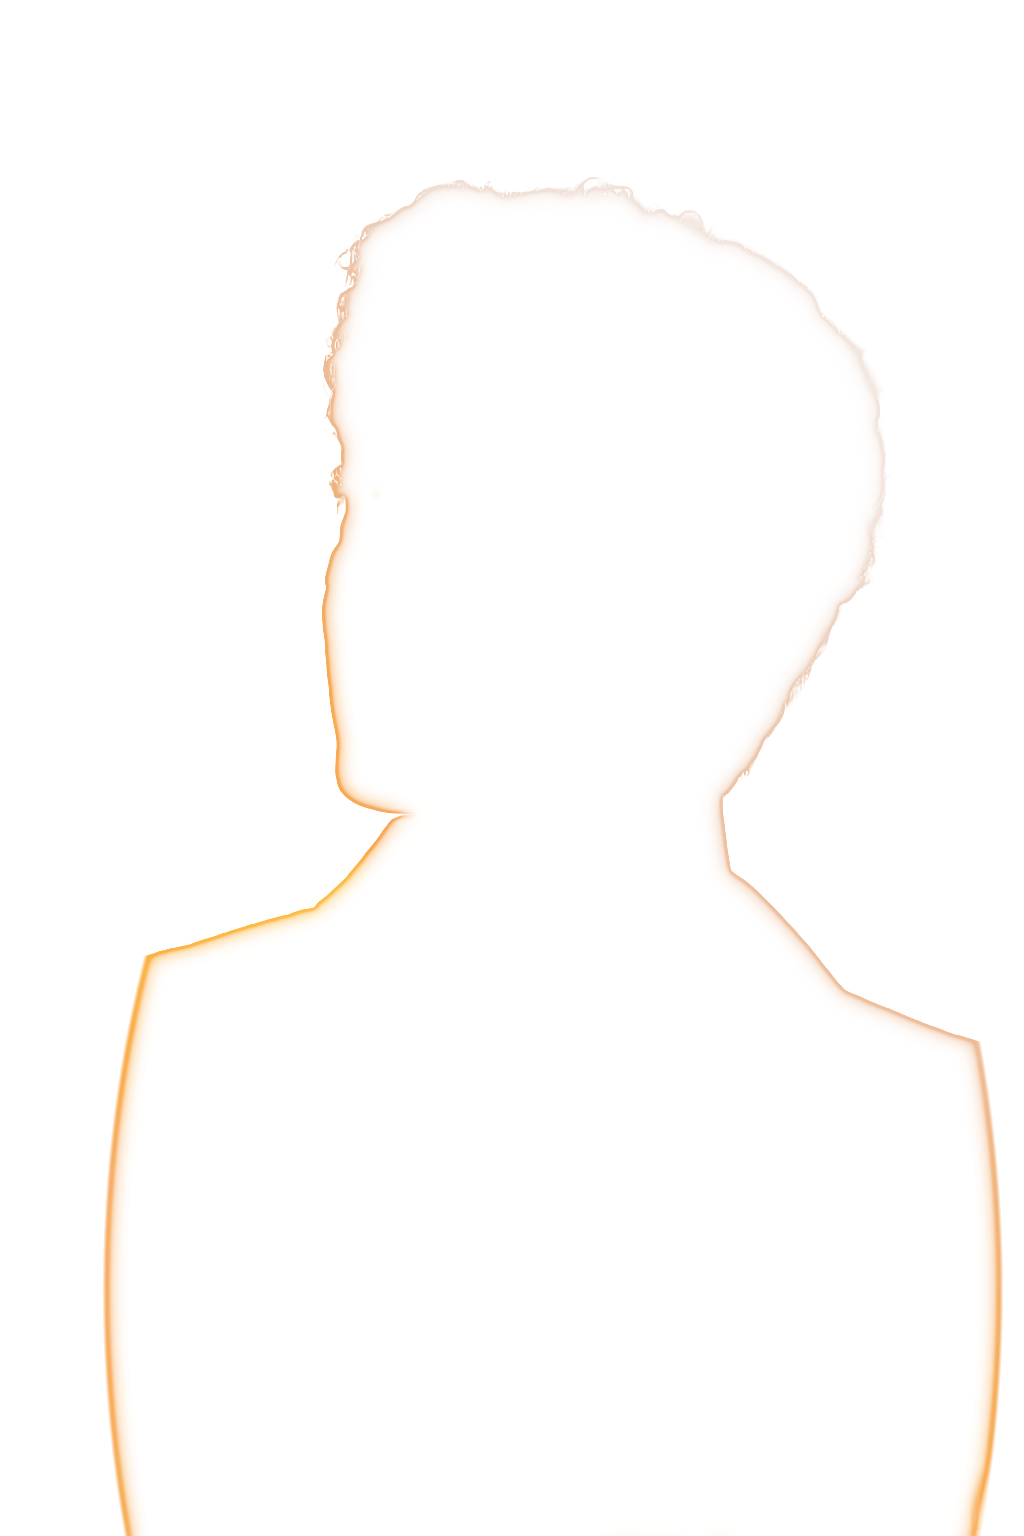
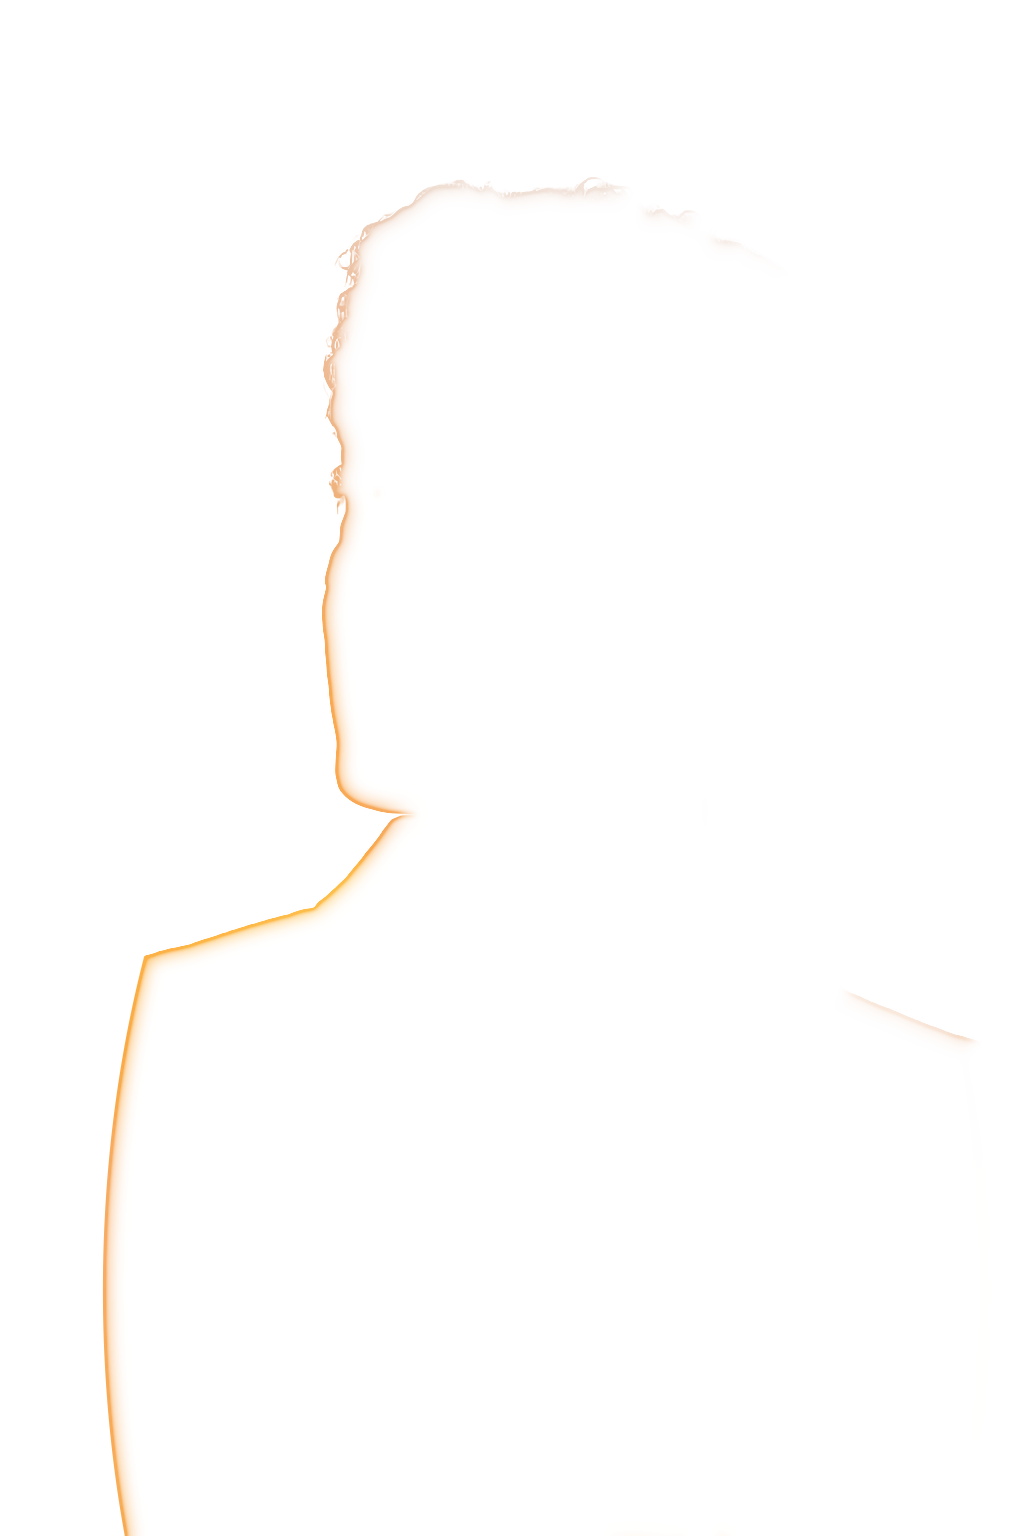
Crachá estável, luz do card mais cedo, camisa sem borda e hero empilhada nos Projetos
- Crachá: o gancho andava de uma vez para a nova posição do "g" a cada
  quadro; num quadro atrasado o salto virava um tranco e o cartão girava
  muito rápido. Agora ele anda um pedaço em cada passo da física, e a
  velocidade dos pontos e o giro do cartão têm teto.
- Card "Seu negócio merece mais que um template": a faixa de luz já começa
  na borda esquerda e, no celular, o efeito começa antes de o card entrar.
- Hero, camisa do lado direito: a borda arredondada dos ombros tinha 5 px
  de esfumado (mancha escura sobre o painel claro, no PC) e a luz de
  contorno acendia o lado direito (fio laranja no celular). Borda de 1 px
  e luz com direção: entra pelas bordas viradas para a esquerda e para o
  alto, de onde vem a luz dourada, e some nas viradas para a direita.
- Hero -> Projetos: sai a faixa clara com o selo entre os dois blocos. O
  painel escuro começa logo embaixo da hero (os cantos arredondados dela
  ficam sobre o café), com sombra macia de cartão empilhado, e o selo
  "(01) Projetos" entra no alto do painel em claro. PC, tablet e celular.

Claude-Session: https://claude.ai/code/session_01VHr8XGdYJNrTSrEhkoVJ4w

diff --git a/js/cracha.js b/js/cracha.js
@@ -194,6 +194,7 @@ async function start() {
   const N = 12;                        // pontos da fita
   const G = 3000, DAMPING = 1.2, STEP = 1 / 120, ITER = 12;
   const KF = 0.004, TWIST = 0.12;      // mola que vira o cartão de frente / giro que o balanço dá
+  const TW_MAX = 0.9, VMAX = 16;       // tetos: giro por passo e velocidade dos pontos (px por passo, ~1900 px/s)
 
   // ----- cena -----
   const canvas = document.createElement('canvas');
@@ -362,7 +363,10 @@ async function start() {
     const vcx = (cx - (T.px + BL.px + BR.px) / 3) / STEP;
     let moved = 0;
     for (const p of pts) {
-      const vx = (p.x - p.px) * damp, vy = (p.y - p.py) * damp, vz = (p.z - p.pz) * damp;
+      let vx = (p.x - p.px) * damp, vy = (p.y - p.py) * damp, vz = (p.z - p.pz) * damp;
+      // teto de velocidade: um puxão forte (título entrando, quadro atrasado) não vira um giro desembestado
+      const sp = Math.hypot(vx, vy, vz);
+      if (sp > VMAX) { const k = VMAX / sp; vx *= k; vy *= k; vz *= k; }
       p.px = p.x; p.py = p.y; p.pz = p.z;
       if (p === A) continue;
       if (drag && p.card) { p.x += (drag.x - cx) * 0.3; p.y += (drag.y - cy) * 0.3; p.z += vz; }
@@ -371,8 +375,10 @@ async function start() {
       moved = Math.max(moved, Math.abs(p.x - p.px) + Math.abs(p.y - p.py) + Math.abs(p.z - p.pz));
     }
     // o balanço gira o cartão; a mola o traz de volta de frente
-    const tw = drag ? 0 : vcx * TWIST * STEP;
+    const tw = drag ? 0 : THREE.MathUtils.clamp(vcx * TWIST * STEP, -TW_MAX, TW_MAX);
     BL.z += tw; BR.z -= tw;
+    const zMax = W * 0.42;   // o cartão inclina, mas não roda sem parar
+    BL.z = THREE.MathUtils.clamp(BL.z, -zMax, zMax); BR.z = THREE.MathUtils.clamp(BR.z, -zMax, zMax);
     const yaw = (BR.z - BL.z) * KF, pitch = (T.z - (BL.z + BR.z) / 2) * KF;
     BR.z += pitch - yaw; BL.z += pitch + yaw;
     for (let it = 0; it < ITER; it++) {
@@ -431,9 +437,17 @@ async function start() {
   let running = false, visible = true, last = 0, acc = 0, still = 0, since = 0;
   function frame(t) {
     const dt = Math.min(0.05, (t - last) / 1000 || 1 / 60); last = t; acc += dt;
-    pin();   // o título pode estar animando: o "g" muda de lugar
-    let moved = 0;
-    while (acc >= STEP) { moved = Math.max(moved, step()); acc -= STEP; }
+    // o título pode estar animando: o "g" muda de lugar. O gancho não pula de uma vez para a posição nova: anda um
+    // pedaço em cada passo da física (num quadro atrasado o salto era grande e o cartão disparava a girar)
+    const ox = P.x, oy = P.y;
+    pin();
+    const nx = P.x, ny = P.y, n = Math.floor(acc / STEP);
+    let moved = 0, i = 0;
+    while (acc >= STEP) {
+      i++; P.x = ox + (nx - ox) * (i / n); P.y = oy + (ny - oy) * (i / n); placeA();
+      moved = Math.max(moved, step()); acc -= STEP;
+    }
+    P.x = nx; P.y = ny; placeA();
     draw();
     still = moved < 0.05 && !drag ? still + dt : 0;
     since = drag ? 0 : since + dt;   // nunca fica rodando sozinho para sempre (tremidinhas de arredondamento)

diff --git a/css/style.css b/css/style.css
@@ -167,8 +167,8 @@ a { color: inherit; text-decoration: none; }
   /* os ombros encostam nas laterais da foto original (corte reto): da metade para baixo o
      corpo ganha um contorno arredondado dos dois lados. A cabeça (metade de cima) fica inteira.
      Vale também para o celular. */
-  -webkit-mask-image: linear-gradient(to bottom, #000 52%, transparent 52.5%), radial-gradient(ellipse 44% 52% at 54% 84%, #000 98.5%, transparent 100%);
-          mask-image: linear-gradient(to bottom, #000 52%, transparent 52.5%), radial-gradient(ellipse 44% 52% at 54% 84%, #000 98.5%, transparent 100%);
+  -webkit-mask-image: linear-gradient(to bottom, #000 52%, transparent 52.5%), radial-gradient(ellipse 44% 52% at 54% 84%, #000 99.6%, transparent 100%);
+          mask-image: linear-gradient(to bottom, #000 52%, transparent 52.5%), radial-gradient(ellipse 44% 52% at 54% 84%, #000 99.6%, transparent 100%);
   -webkit-mask-repeat: no-repeat; mask-repeat: no-repeat;   /* sem isso, um fio do lado direito aparecia na borda esquerda */
 }
 .person img { display: block; width: 100%; height: 100%; }
@@ -1859,4 +1859,26 @@ html.leve .intro .btn-work, html.leve .intro .btn-work::before, html.leve .intro
   position: absolute; inset: 0; pointer-events: none;
   background: url("../img/gabriel-luz.webp") 0 0 / 100% 100% no-repeat;
   mix-blend-mode: screen;
+}
+
+/* ---------- Hero -> Projetos: cartões empilhados ----------
+   Sem a faixa clara entre os dois blocos: o painel escuro dos Projetos começa logo embaixo da hero (passa 36 px
+   por baixo dela, então os cantos arredondados da hero ficam sobre o café), uma sombra macia mostra que a hero é o
+   cartão de cima, e o selo "(01) Projetos" entra no alto do painel, em claro. */
+.about:has(> .about-in > .projects:first-child) { padding-top: 0; }
+.about-in > .projects:first-child { position: relative; }
+.about-in > .projects:first-child .pj {
+  border-radius: 0;   /* o topo fica escondido por baixo da hero */
+  padding-top: calc(36px + clamp(96px, 9vw, 150px));
+}
+.about-in > .projects:first-child .pj-kicker {
+  position: absolute; z-index: 3; left: 0; right: 0; top: calc(36px + clamp(34px, 3.4vw, 60px)); margin: 0; color: #fff;
+}
+.pj-kicker .k-num { color: var(--peach); }
+.pj-kicker .k-sub { color: rgba(255, 233, 216, .72); }
+.pj-kicker .k-line { opacity: .3; }
+.hero { box-shadow: 0 30px 60px -26px rgba(26, 8, 3, .6), 0 12px 24px -14px rgba(26, 8, 3, .45); }
+@media (max-width: 860px) {
+  .about-in > .projects:first-child .pj { padding-top: calc(36px + 104px); }
+  .about-in > .projects:first-child .pj-kicker { top: calc(36px + 34px); }
 }

diff --git a/js/main.js b/js/main.js
@@ -151,19 +151,19 @@ if (animate) {
   shine.className = 'quote-shine'; glow.className = 'quote-glow';
   shine.setAttribute('aria-hidden', 'true'); glow.setAttribute('aria-hidden', 'true');
   card.prepend(glow); card.append(shine);
-  gsap.set(shine, { xPercent: -130 });
+  gsap.set(shine, { xPercent: -70 });
   function cardAlive() {
     if (leve()) return;
     if (ScrollTrigger) {
       // PC: o card está na hero desde o começo; vale do topo até a hero sair da tela.
       // Celular: ele fica mais embaixo; vale enquanto ele atravessa a tela.
       const range = isMobile
-        ? { trigger: card, start: 'top bottom', end: 'bottom top' }
+        ? { trigger: card, start: 'top 125%', end: 'bottom 15%' }   // começa um pouco antes de ele entrar na tela
         : { trigger: hero, start: 'top top', end: 'bottom top' };
       const st = gsap.timeline({ defaults: { ease: 'none' }, scrollTrigger: { ...range, scrub: 0.8, invalidateOnRefresh: true } });
       st.fromTo(card, { yPercent: isMobile ? 16 : 0 }, { yPercent: isMobile ? -16 : -42 }, 0)
-        .fromTo(shine, { xPercent: -130 }, { xPercent: 130 }, 0)
-        .fromTo(glow, { '--gx': '0%', '--gy': '0%', '--gc': 'rgba(255, 122, 46, .30)' },
+        .fromTo(shine, { xPercent: -70 }, { xPercent: 135 }, 0)   // a luz já aparece na borda esquerda no começo
+        .fromTo(glow, { '--gx': '12%', '--gy': '10%', '--gc': 'rgba(255, 130, 50, .34)' },
           { '--gx': '100%', '--gy': '100%', '--gc': 'rgba(255, 196, 80, .38)' }, 0);
     }
     if (!matchMedia('(hover: hover) and (pointer: fine)').matches) return;
